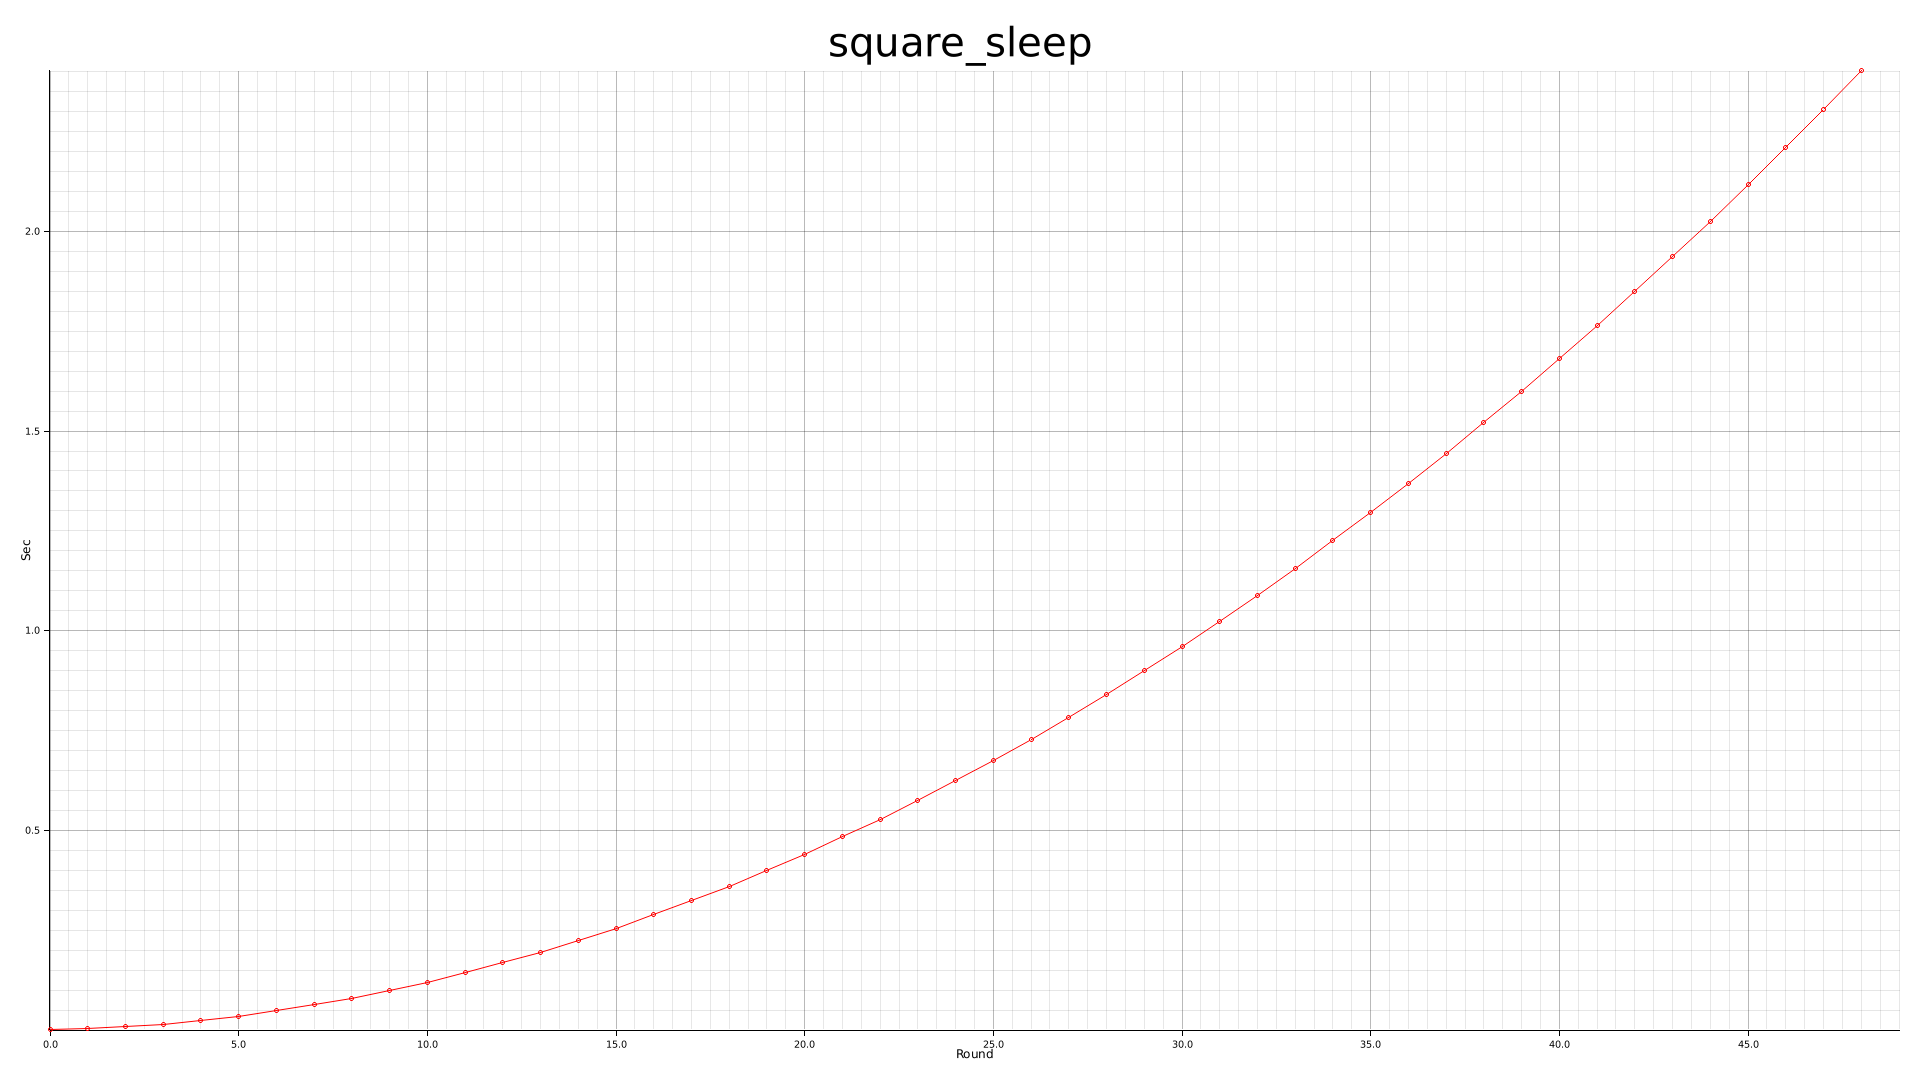
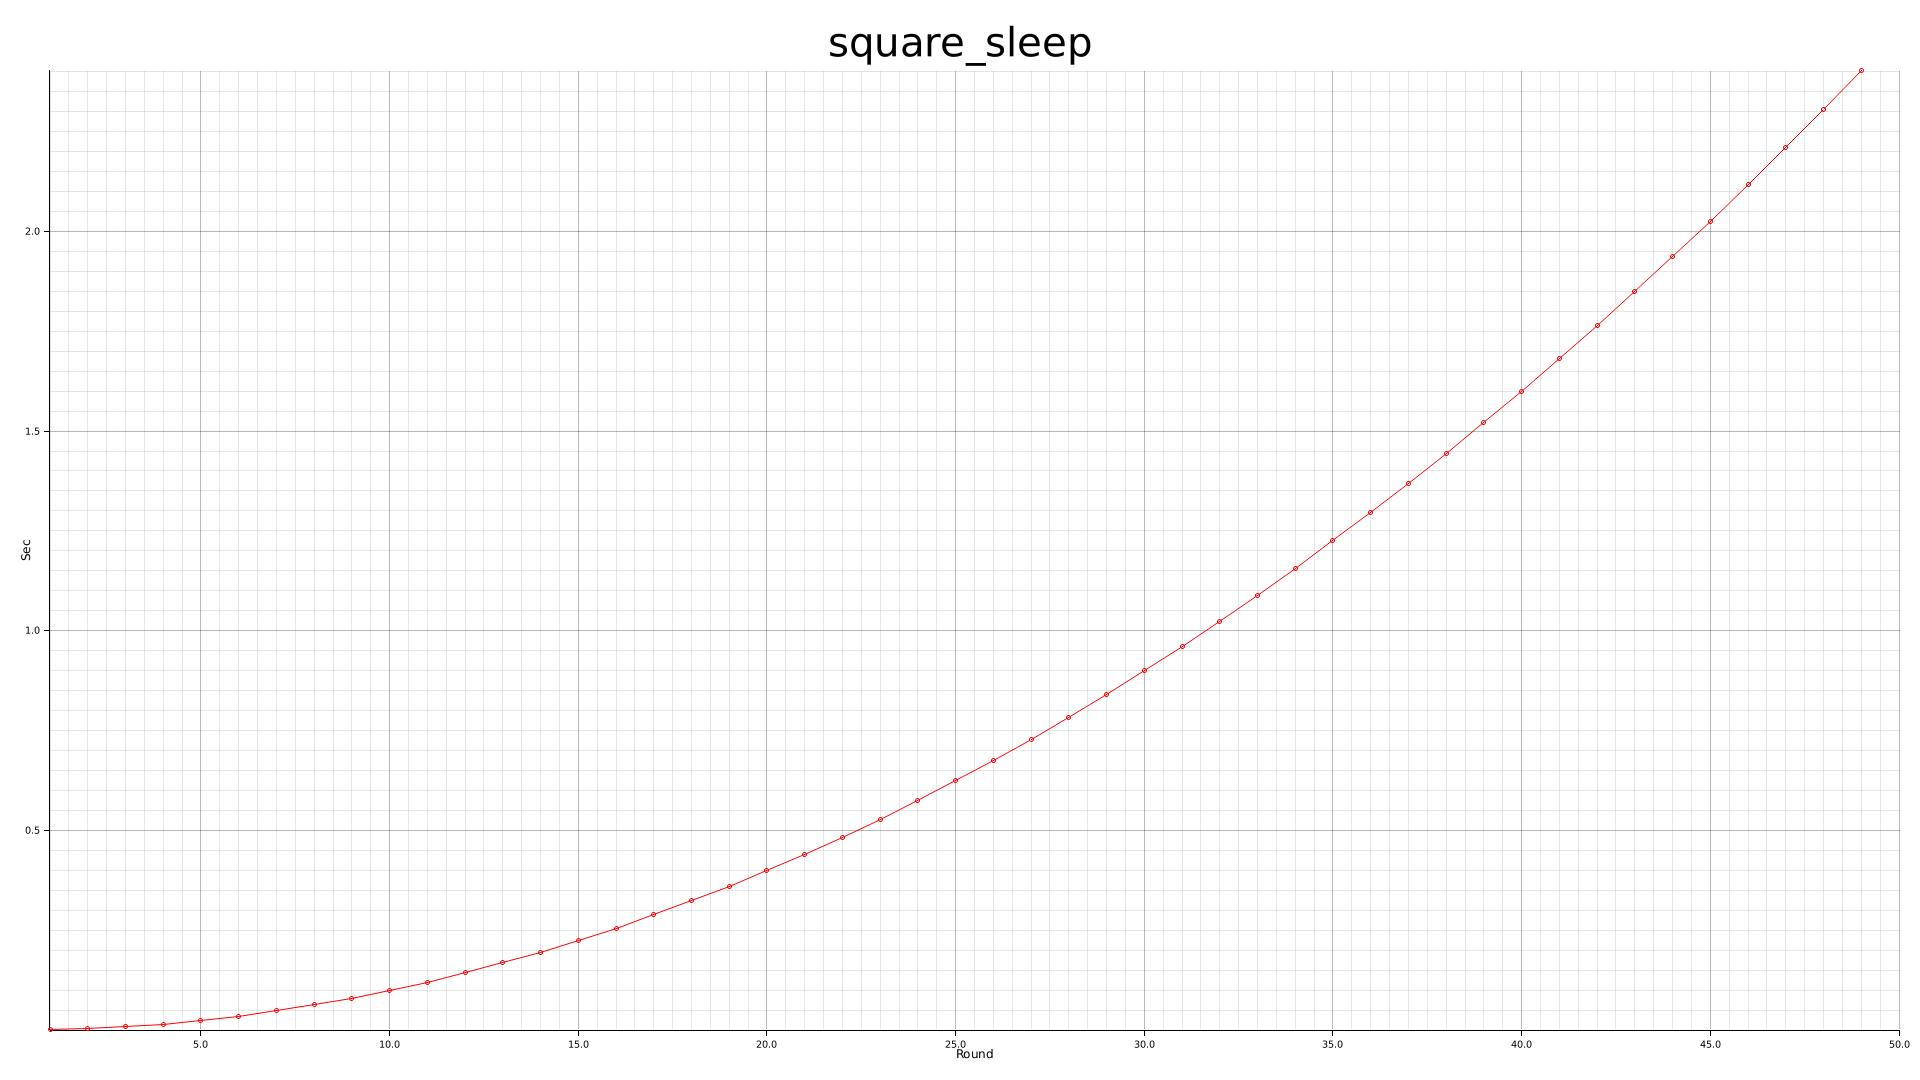
The x axis should start from 1

diff --git a/src/perf.rs b/src/perf.rs
@@ -55,7 +55,7 @@ fn gen_png(
         .x_label_area_size(30)
         .y_label_area_size(30)
         .build_cartesian_2d(
-            0.0f32..(data.len() as f32),
+            1.0f32..(data.len() as f32 + 1.0f32),
             min_dur.as_secs_f32()..max_dur.as_secs_f32(),
         )
         .map_err(|e| PerfPlotterError::new(e.to_string()))?;
@@ -73,7 +73,7 @@ fn gen_png(
             LineSeries::new(
                 data.iter()
                     .enumerate()
-                    .map(|(i, d)| (i as f32, d.as_secs_f32())),
+                    .map(|(i, d)| (i as f32 + 1.0f32, d.as_secs_f32())),
                 RED,
             )
             .point_size(2),
